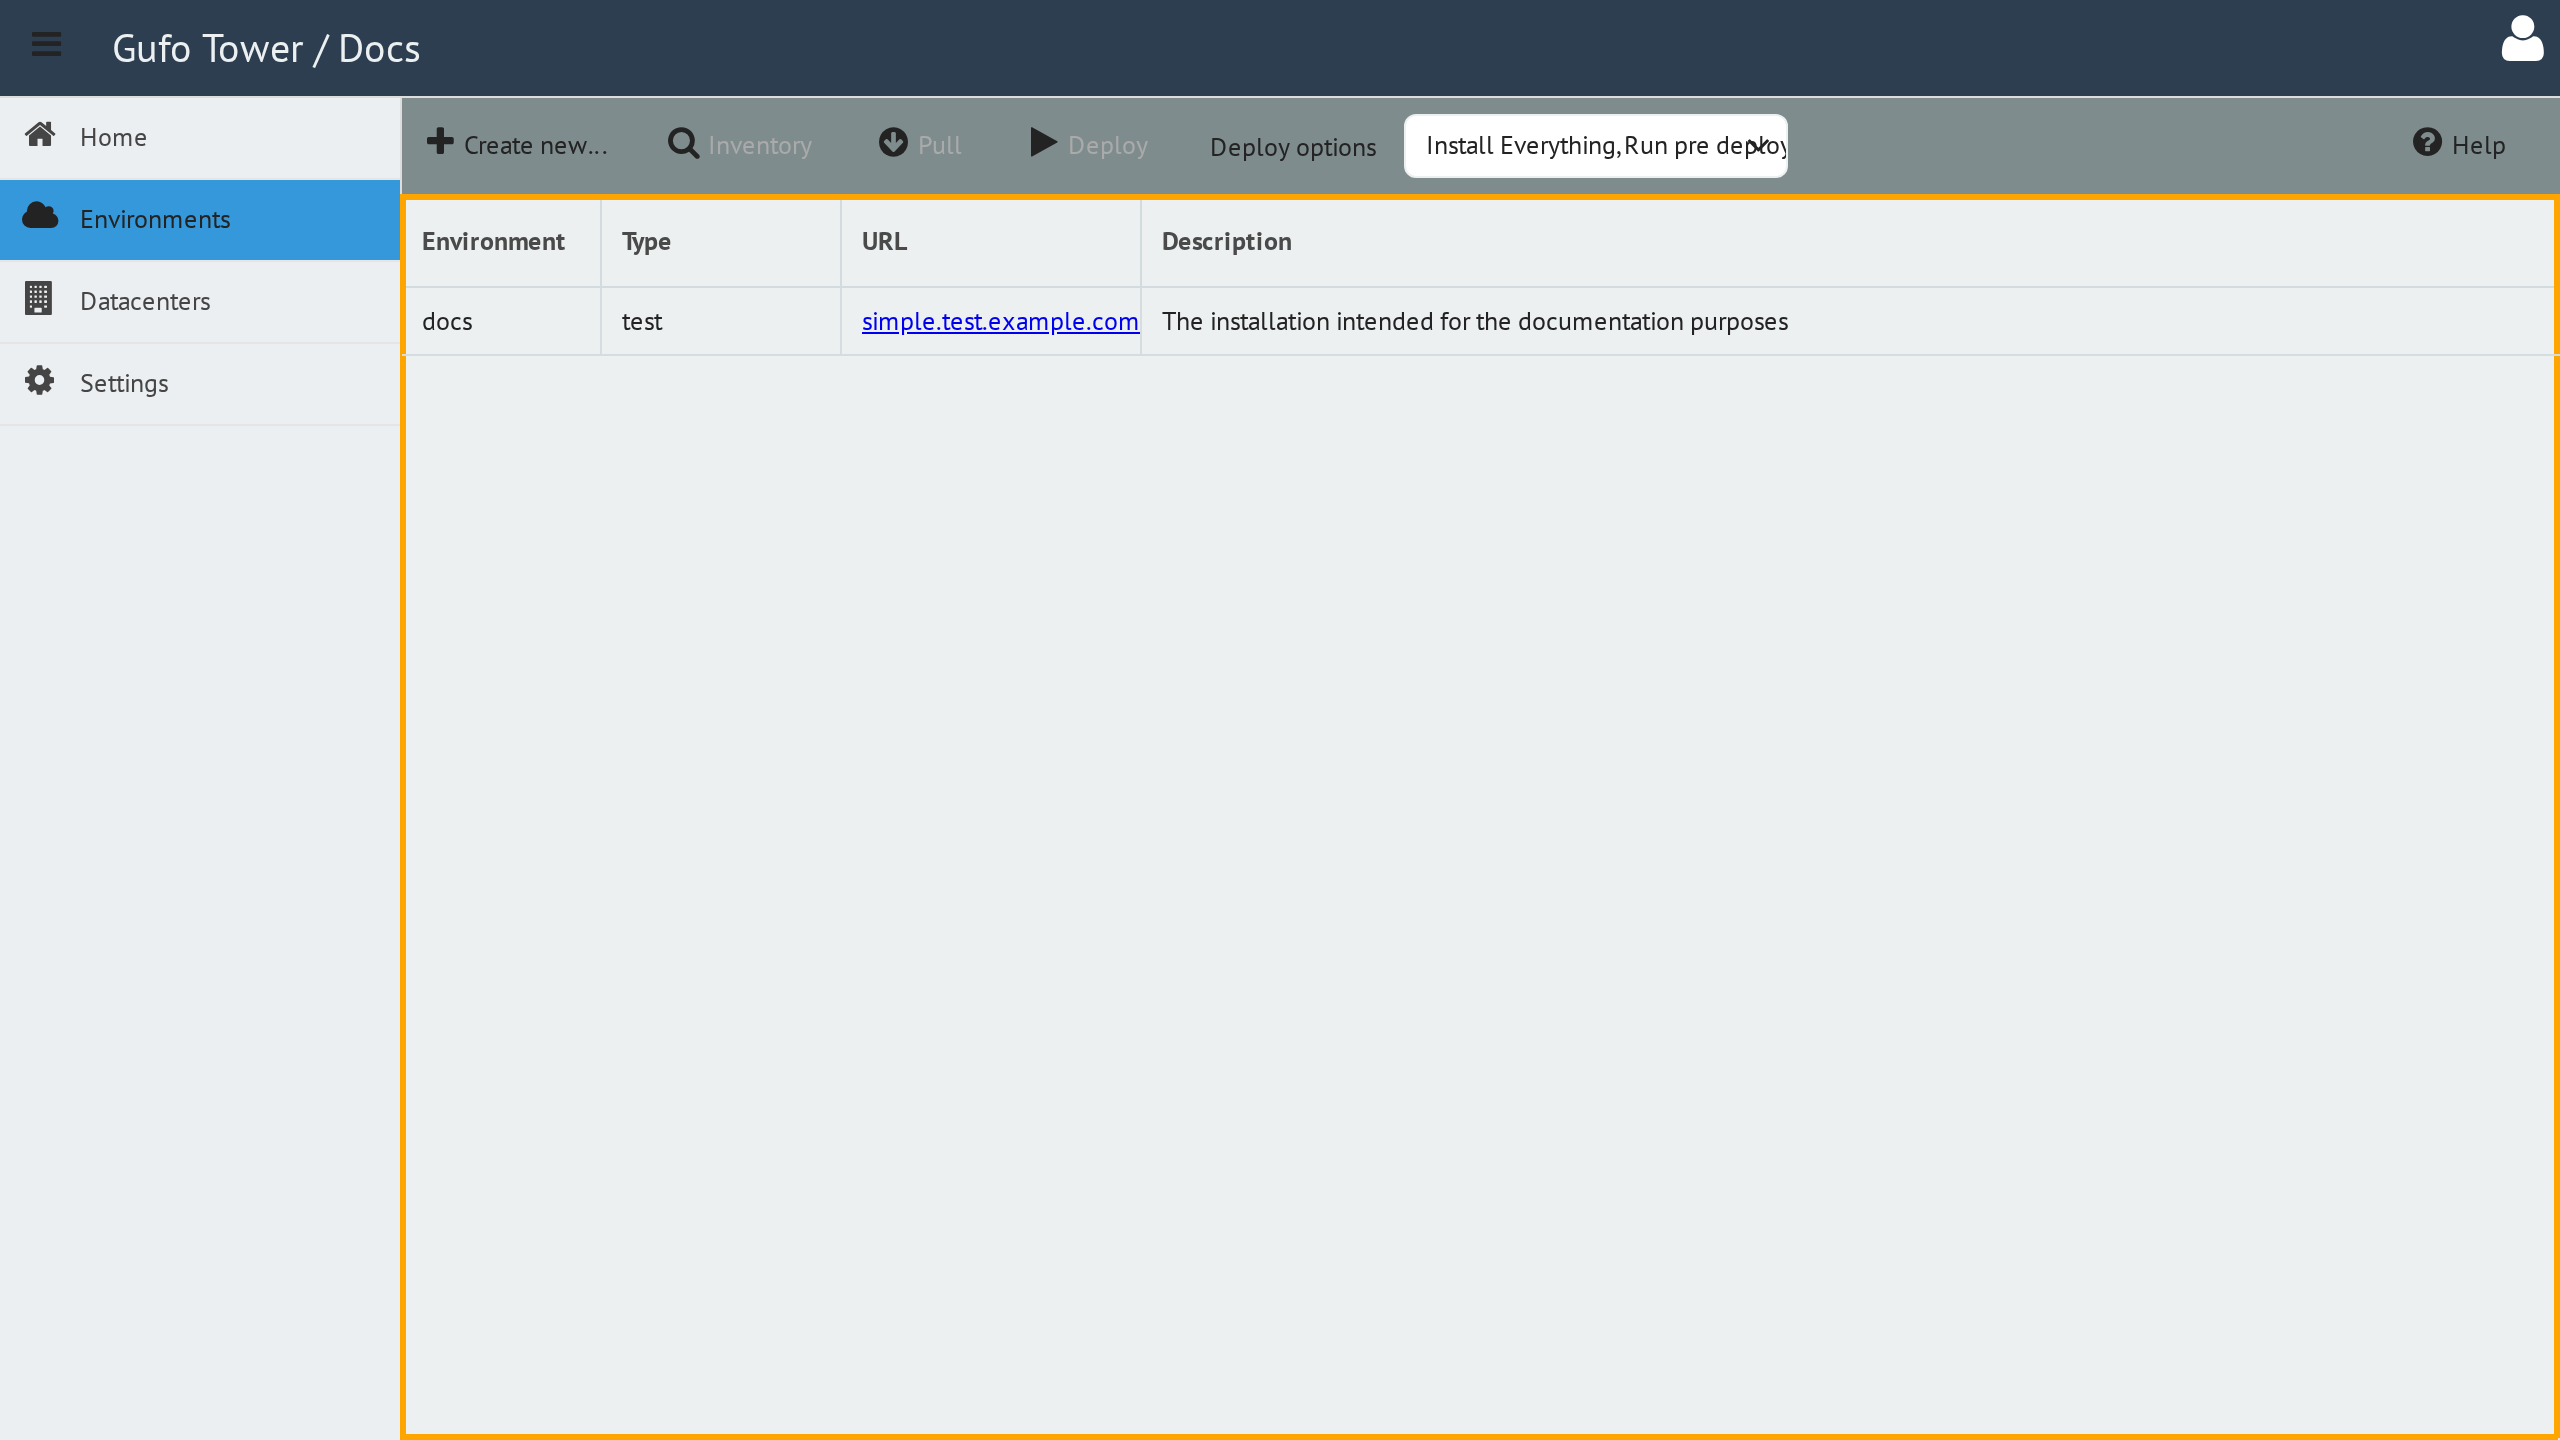
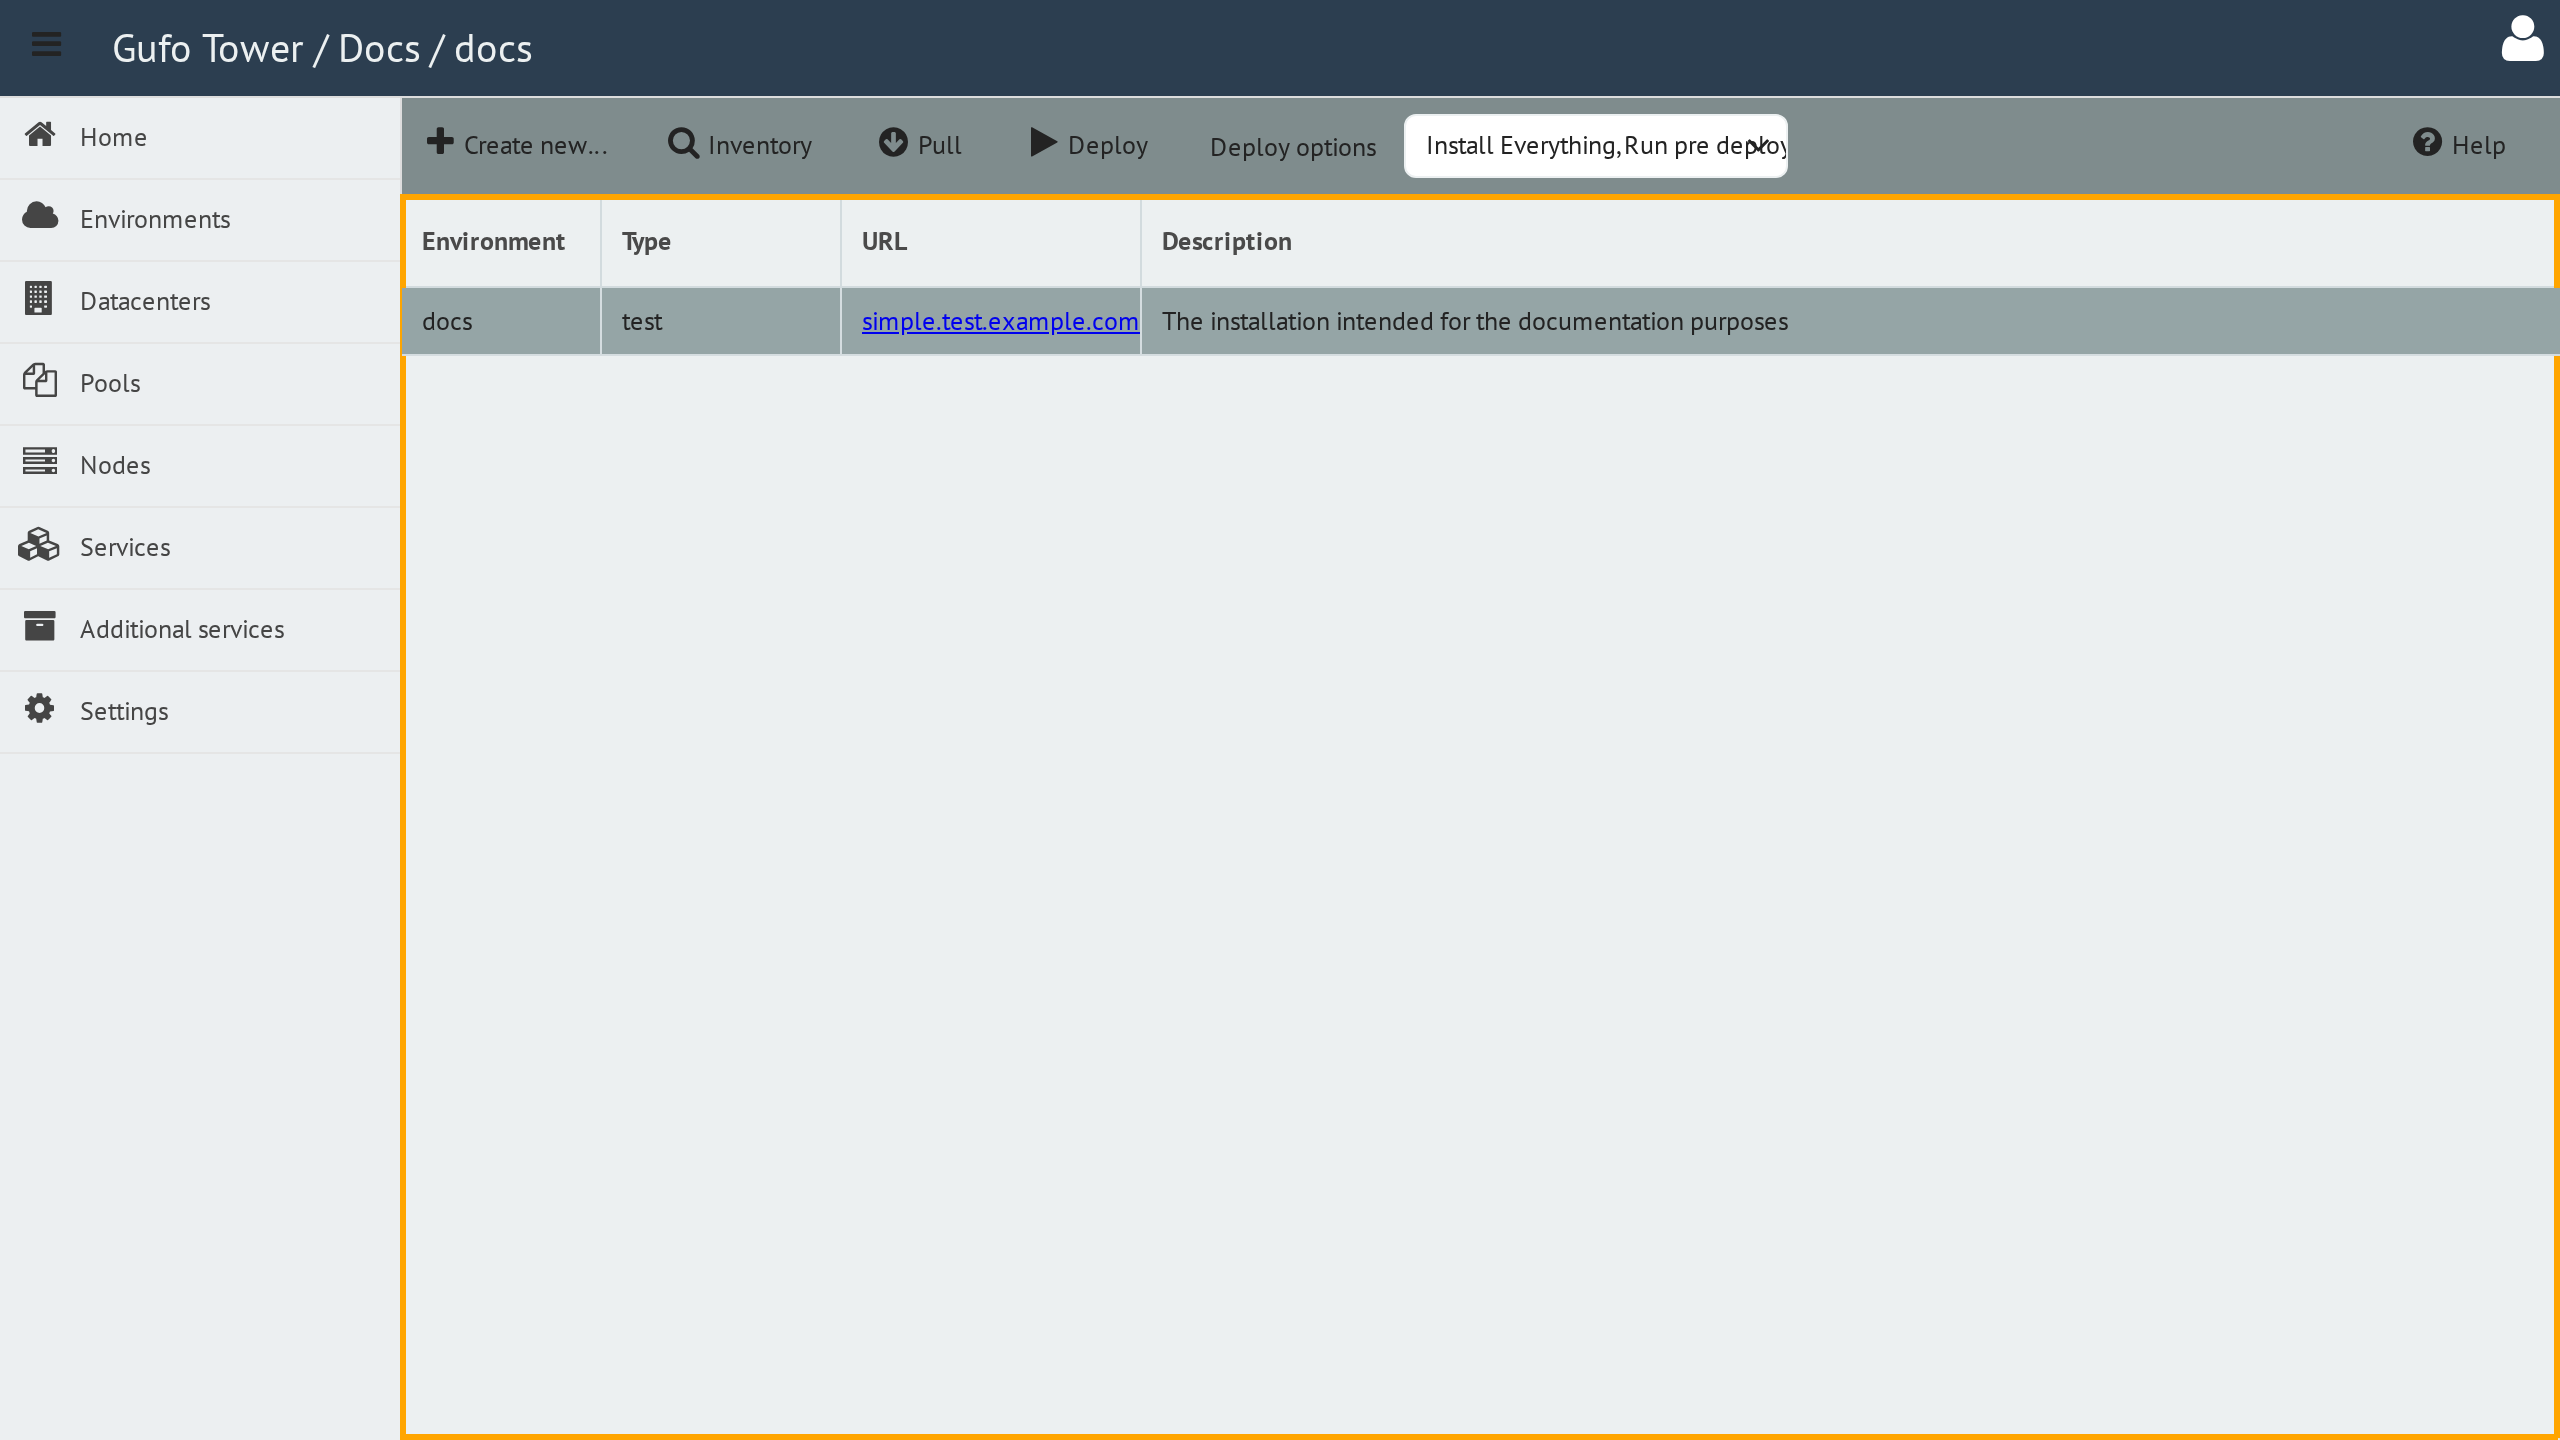
Deploy: describe recap

diff --git a/docs/shotter/environment.py b/docs/shotter/environment.py
@@ -32,6 +32,7 @@ class EnvironmentShotter(BaseShotter):
         / "environment-list-toolbar-pull.png",
         "environment-list-toolbar-deploy": ENVIRONMENT
         / "environment-list-toolbar-deploy.png",
+        # "environment-deploy": ENVIRONMENT / "environment-deploy.png",
     }
     fixture = "docs"
 
@@ -40,6 +41,10 @@ class EnvironmentShotter(BaseShotter):
         # Grab desktop
         async with self.highlight(page.locator('[webix_tm_id="environment"]')):
             await self.screenshot(page, "environments-start")
+        # Click on first environment
+        await page.locator(
+            '[view_id="environment_list"] .webix_cell'
+        ).first.click()
         # Environment list
         async with self.highlight(
             page.locator('[view_id="environment_list"]')
@@ -58,7 +63,7 @@ class EnvironmentShotter(BaseShotter):
                 page.locator('[view_id="environment_list_toolbar"]'),
                 "environment-list-toolbar-pull",
             )
-        # Pull deploy button
+        # Deploy button
         async with self.highlight(
             page.locator('[view_id="environment_deploy_button"]')
         ):
@@ -74,3 +79,12 @@ class EnvironmentShotter(BaseShotter):
             page.locator('[view_id="environment_form_toolbar"]'),
             "environment-form-toolbar",
         )
+        # @todo: Run pull
+        # Run deploy
+        # await self.open_page(page, "/environment/1/deploy")
+        # @todo: fa-check-circle? or Complete
+        # await page.get_by_text("'Complete'").wait_for()
+        # await self.screenshot(
+        #     page,
+        #     "environment-deploy",
+        # )

diff --git a/docs/user-guide/environment/deploy.md b/docs/user-guide/environment/deploy.md
@@ -27,9 +27,38 @@ The toolbar contains the following elements:
 
 **Deploy Recap** provides a summary of the deployment results. Each result is displayed as a number with a colored indicator.
 
+<style>
+.ansible-tag {
+    padding: .2em .6em .3em;
+    font-size: 75%;
+    font-weight: bold;
+    line-height: 1;
+    text-align: center;
+    white-space: nowrap;
+    vertical-align: baseline;
+    border-radius: 1em;
+}
+
+.ansible-ok-tag {
+    background-color: #2ecc71;
+}
+
+.ansible-changed-tag {
+    background-color: #f1c40f;
+}
+
+.ansible-unreachable-tag {
+    background-color: #7f8c8d;
+}
+
+.ansible-failed-tag {
+    background-color: #c0392b;
+}
+</style>
+
 | Result | Description |
 | --- | --- |
-| 🟢 **12** | Task completed successfully without changes. |
-| 🟡 **5** | Task completed successfully with changes. |
-| ⚪ **3** | Task was skipped. |
-| 🔴 **1** | Task failed. |
+| <div class="ansible-tag ansible-ok-tag">x</div> | Task completed successfully without changes. |
+| <div class="ansible-tag ansible-changed-tag">x</div> | Task completed successfully with changes. |
+| <div class="ansible-tag ansible-unreachable-tag">x</div>| Task was skipped. |
+| <div class="ansible-tag ansible-failed-tag">x</div> | Task failed. |
